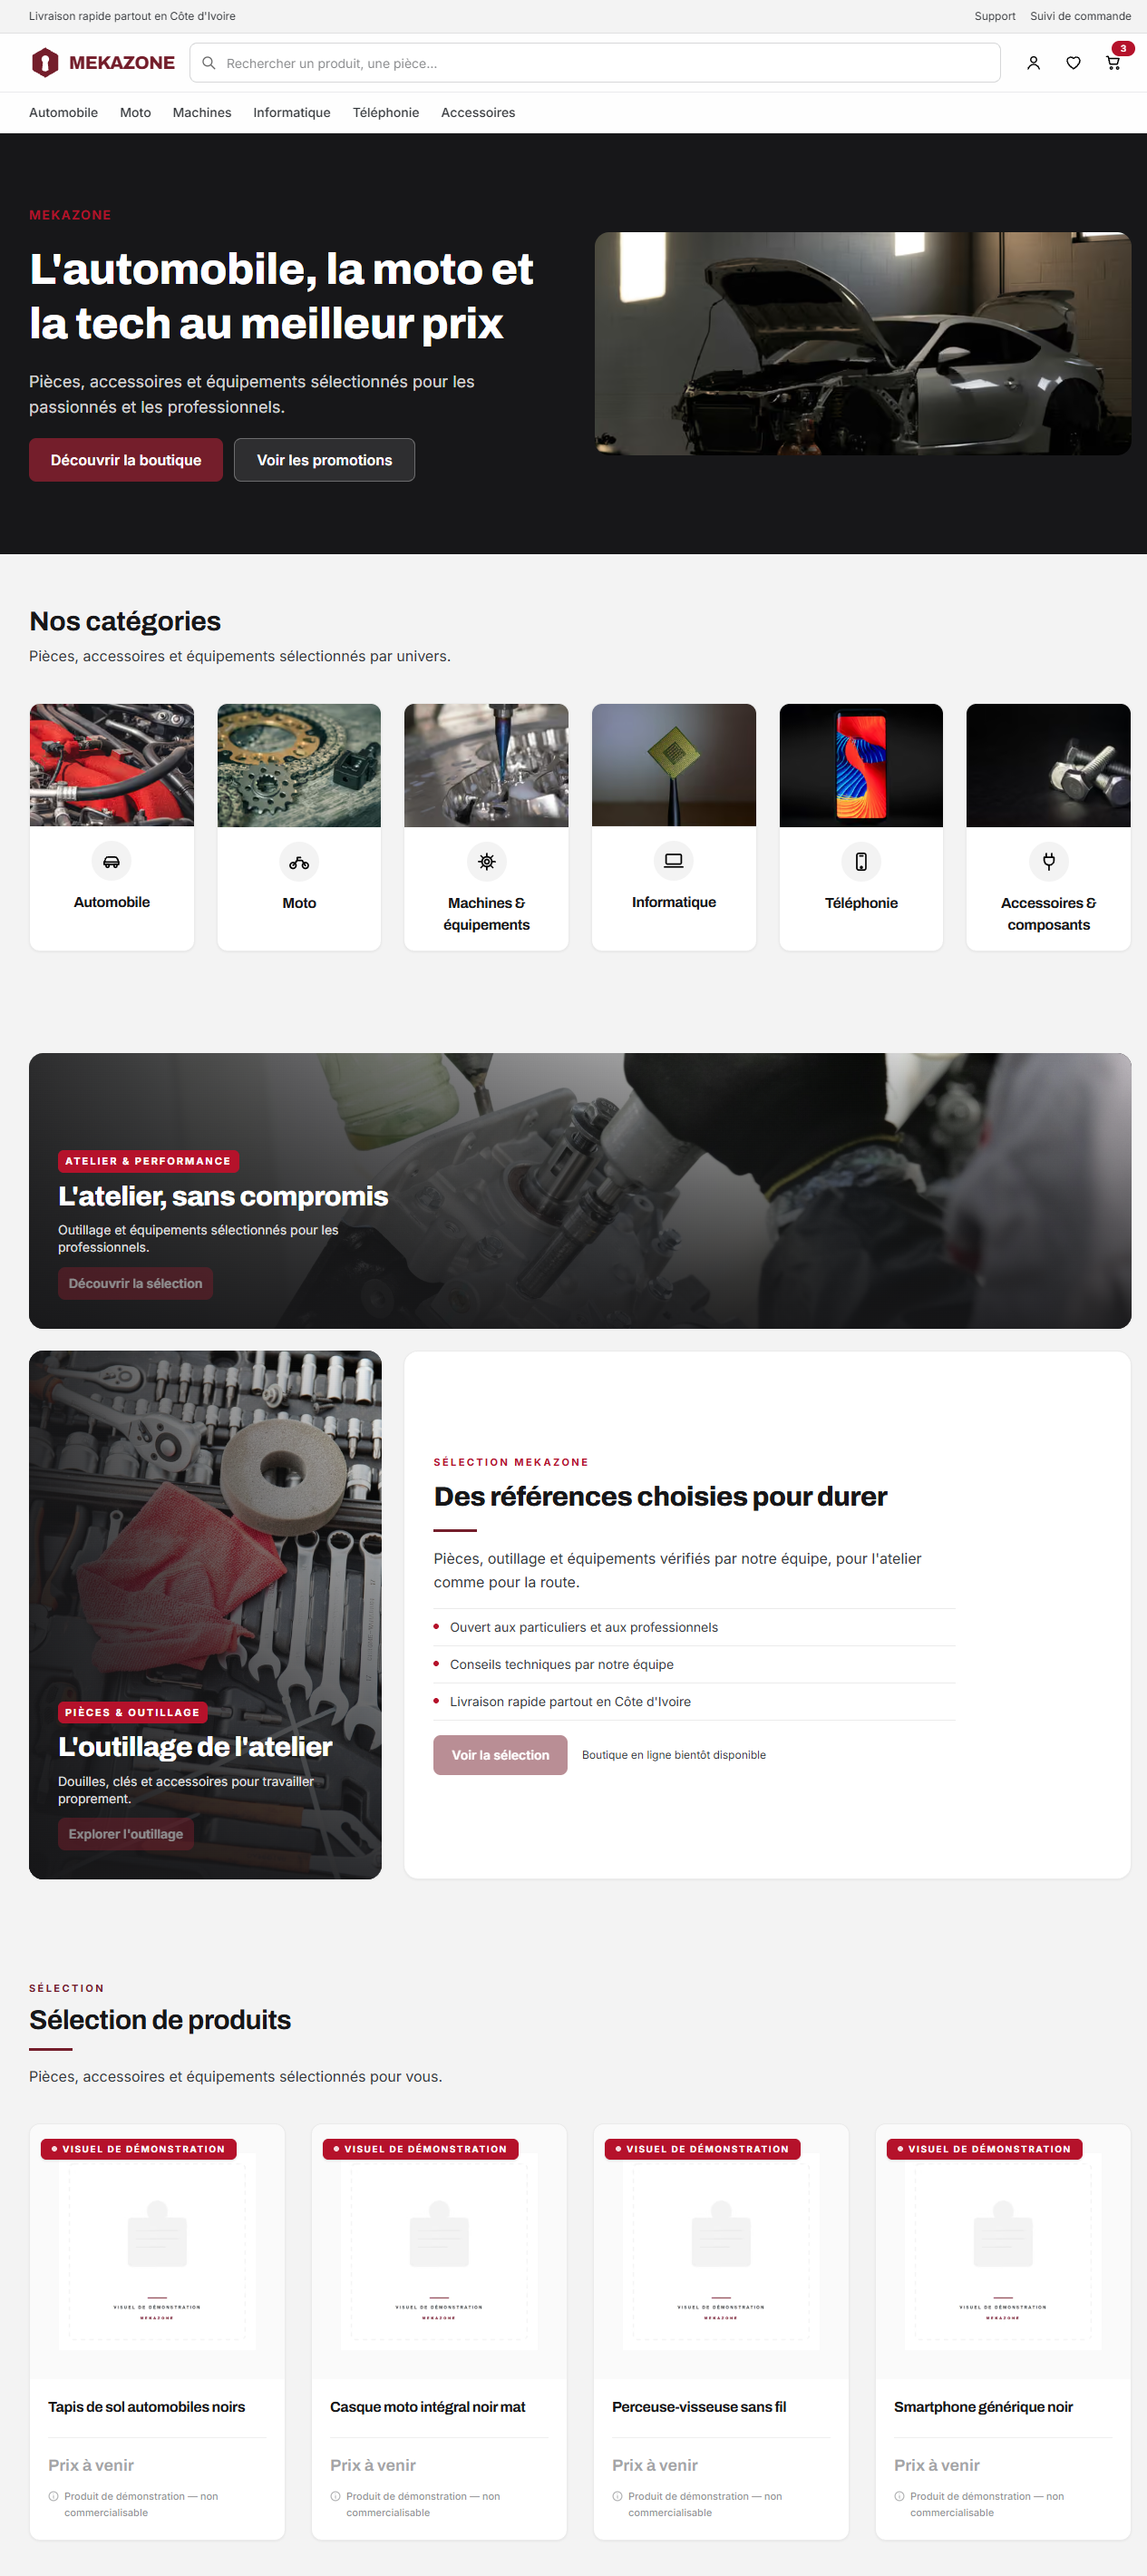
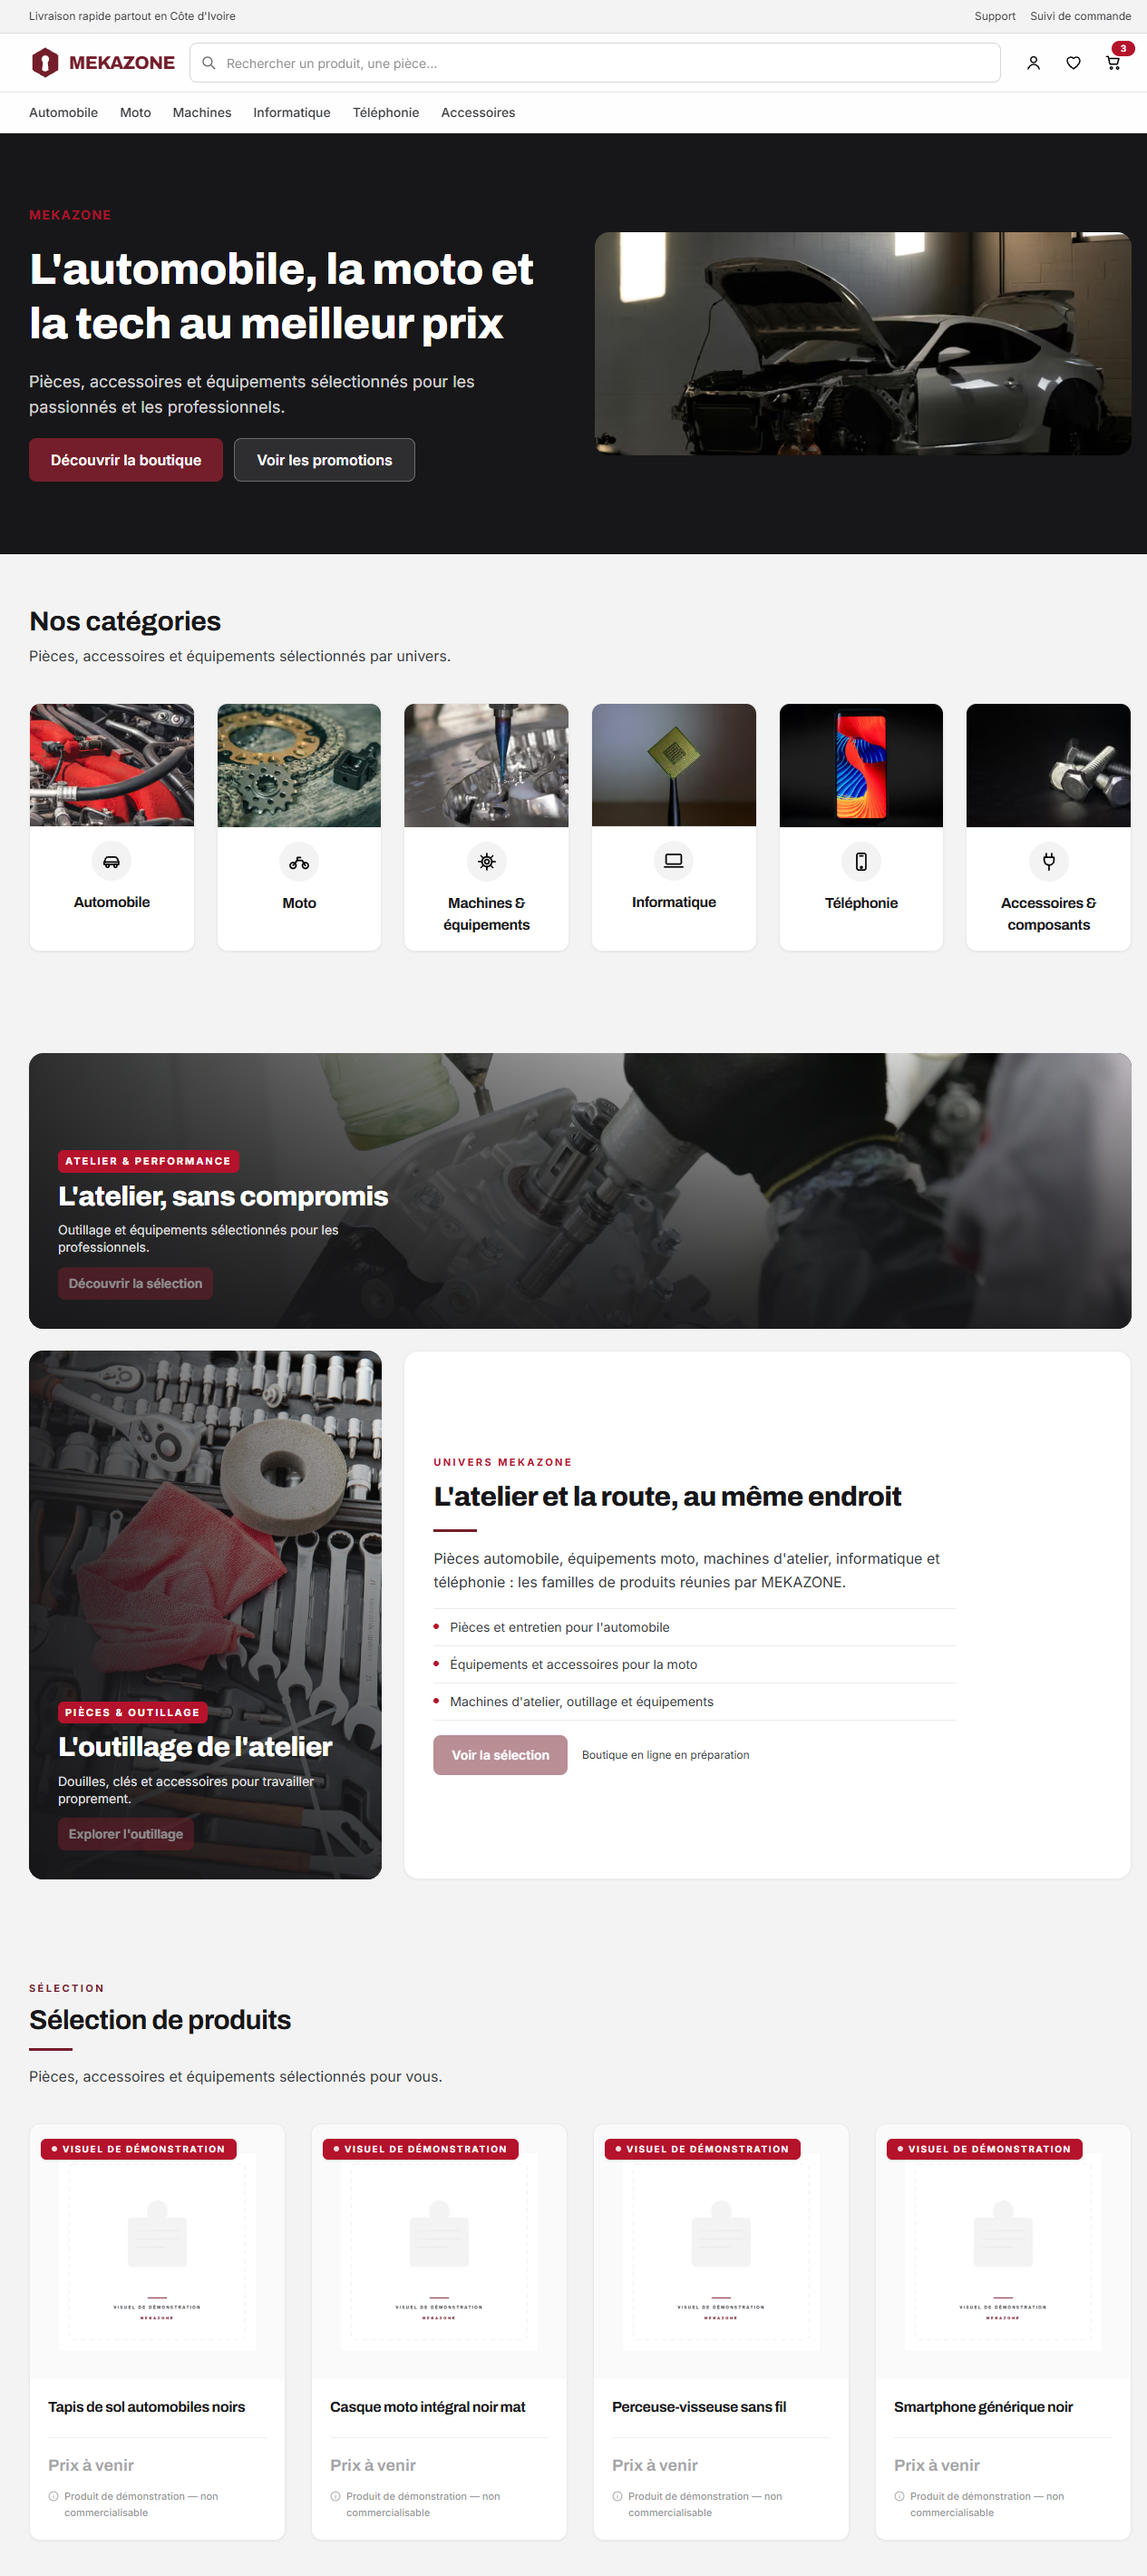
fix(d2.5): replace unverified commercial claims in editorial block
Le bloc éditorial annonçait vérification par l'équipe, ouverture aux
professionnels, conseils techniques et livraison nationale sans preuve
dans le projet. Le texte décrit désormais uniquement les familles de
produits, sans prestation ni engagement ; captures régénérées.

Generated with Codebuff 🤖

Changed region(s): [[0.37, 0.5577, 0.7708, 0.6817]]

diff --git a/src/data/home.ts b/src/data/home.ts
@@ -29,17 +29,20 @@ export const promoContent = {
     ctaLabel: "Explorer l'outillage",
     imageAlt: "Coffret de douilles et de clés rangé dans un bac d'atelier",
   },
+  // Contenu descriptif uniquement : les univers et familles de produits, sans
+  // prestation, délai, zone de livraison, garantie ni engagement commercial.
   editorial: {
-    eyebrow: "Sélection MEKAZONE",
-    title: "Des références choisies pour durer",
-    body: "Pièces, outillage et équipements vérifiés par notre équipe, pour l'atelier comme pour la route.",
+    eyebrow: "Univers MEKAZONE",
+    title: "L'atelier et la route, au même endroit",
+    // Espaces insécables avant le deux-points : évite un « : » orphelin en début de ligne sur mobile.
+    body: "Pièces automobile, équipements moto, machines d'atelier, informatique et téléphonie\u00A0: les familles de produits réunies par MEKAZONE.",
     items: [
-      "Ouvert aux particuliers et aux professionnels",
-      "Conseils techniques par notre équipe",
-      "Livraison rapide partout en Côte d'Ivoire",
+      "Pièces et entretien pour l'automobile",
+      "Équipements et accessoires pour la moto",
+      "Machines d'atelier, outillage et équipements",
     ],
     ctaLabel: "Voir la sélection",
-    note: "Boutique en ligne bientôt disponible",
+    note: "Boutique en ligne en préparation",
   },
 };
 
